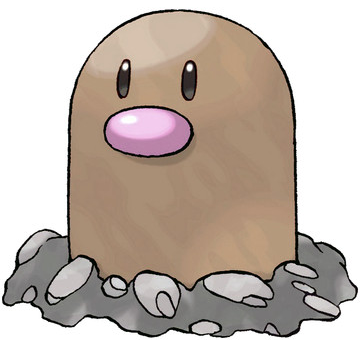
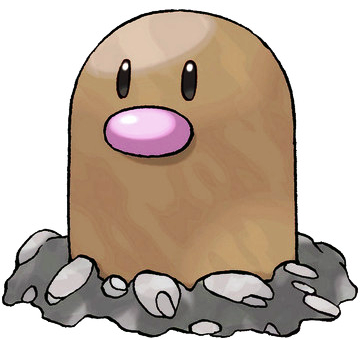
game

diff --git a/30 - Whack A Mole/index-START.html b/30 - Whack A Mole/index-START.html
@@ -11,8 +11,10 @@
     <link rel="stylesheet" href="style.css" />
   </head>
   <body>
-    <h1>Whack-a-Pokemon! <span class="score">0</span></h1>
-    <button onClick="startGame()">Start!</button>
+    <h1>Whack-a-Pokemon!</h1>
+    <!-- <p class='score'>hey</p> -->
+    <p class="score">0</p>
+    <button class="score" onClick="startGame()">Start!</button>
 
     <div class="game">
       <div class="hole hole1">
@@ -39,8 +41,13 @@
       const holes = document.querySelectorAll(".hole");
       const scoreBoard = document.querySelector(".score");
       const moles = document.querySelectorAll(".mole");
+
       let lastHole;
       let timeUp = false;
+      // let lastScore;
+      const lastScore = JSON.parse(localStorage.getItem("score")) || [];
+      console.log(lastScore);
+      // scoresBoard.textContent = `last score: ${lastScore}`;
       let score = 0;
 
       function randomTime(min, max) {
@@ -69,18 +76,21 @@
       }
 
       function startGame() {
-        scoreBoard.textContent = 0;
+        // console.log(lastScore);
+        // score = 0;
         timeUp = false;
-        score = 0;
         peep();
         setTimeout(() => (timeUp = true), 10000);
       }
+
       function bonk(e) {
         if (!e.isTrusted) return;
         console.log(e);
         score++;
+        // lastScore.push(score);
         this.parentNode.classList.remove("up");
-        scoreBoard.textContent = score;
+        scoreBoard.textContent = ` current score ${score}`;
+        localStorage.setItem("score", JSON.stringify(score));
       }
       moles.forEach((mole) => mole.addEventListener("click", bonk));
     </script>

diff --git a/30 - Whack A Mole/style.css b/30 - Whack A Mole/style.css
@@ -25,12 +25,14 @@ h1 {
 }
 
 .score {
-  background: rgba(255, 255, 255, 0.2);
+  font-size: 3rem;
+  /* text-align: center; */
+  /* background: rgba(255, 255, 255, 0.2); */
   padding: 0 3rem;
-  line-height: 1;
-  border-radius: 1rem;
 }
-
+p {
+  text-align: center;
+}
 .game {
   width: 600px;
   height: 400px;
@@ -58,7 +60,7 @@ h1 {
 }
 
 .mole {
-  background: url("diglett.png") bottom center no-repeat;
+  background: url("diglett2.png") bottom center no-repeat;
   background-size: 60%;
   position: absolute;
   top: 100%;
